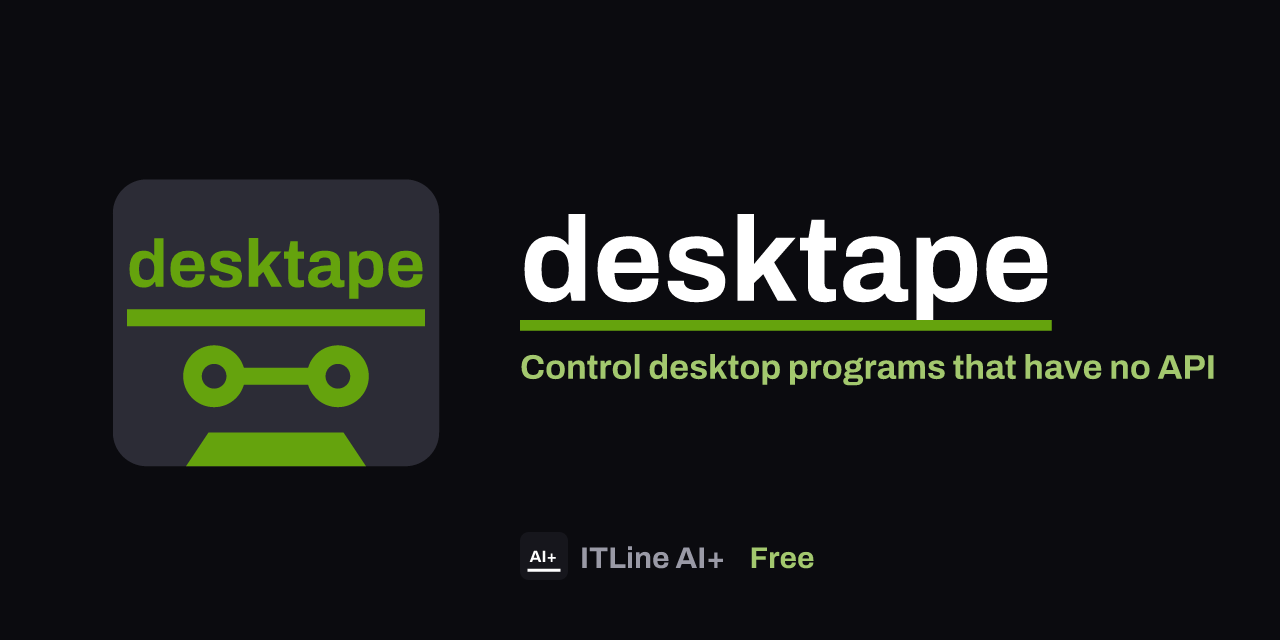
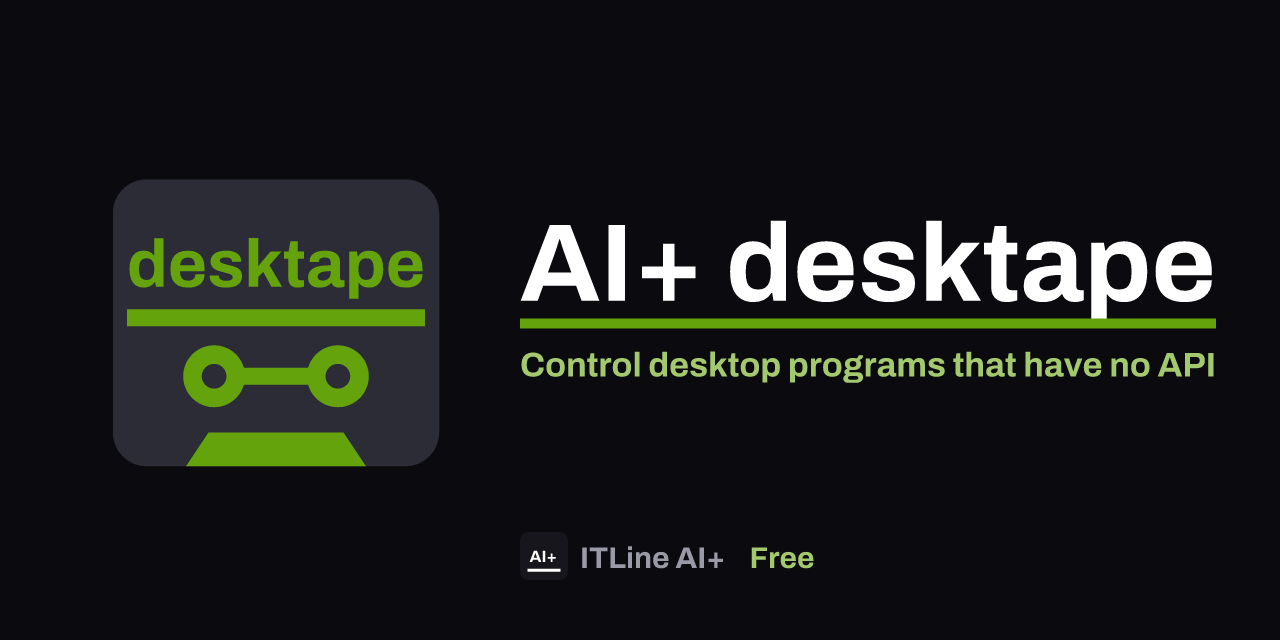
AI+ desktape: the repository is itlinekft/aiplus-desktape; README head, links and Pages follow
Owner decision (#187, confirmed by the owner in two sessions): every AI+ module is "AI+ <name>" with an aiplus-
id, so desktape is AI+ desktape, aiplus-desktape. The repositories were renamed (GitHub forwards the old
addresses; Pages moves to itlinekft.github.io/aiplus-desktape, which does not forward). Here:
- README head: the ITLine AI+ lockup and the desktape mark, then "AI+ desktape · ITLine AI+ · ingyenes · MIT";
- every github.com/itlinekft/desktape and itlinekft.github.io/desktape link (README, SECURITY, user guide,
  site, the desktape-start skill), and `git clone … && cd aiplus-desktape`;
- the site's title and link-preview title, and the regenerated social card titled "AI+ desktape".
The command stays `desktape` (desktape.py, the desktape skill); the plugin's own name is the next commit.

Changed region(s): [[0.4062, 0.3125, 0.9688, 0.625]]

diff --git a/site/index.html b/site/index.html
@@ -3,15 +3,15 @@
 <head>
 <meta charset="utf-8">
 <meta name="viewport" content="width=device-width, initial-scale=1">
-<title>desktape: tapes for desktop GUIs</title>
+<title>AI+ desktape: control desktop programs that have no API</title>
 <meta name="description" content="Control desktop programs that have no API: an agent works out the clicks once as a tape, and desktape replays it with zero model tokens, checking every step. The same tape runs as a test or a captioned video.">
-<meta property="og:title" content="desktape">
+<meta property="og:title" content="AI+ desktape">
 <meta property="og:description" content="Control desktop programs that have no API, checked step by step, with zero model tokens on replay. Like VHS, but for desktop GUIs.">
-<meta property="og:image" content="https://itlinekft.github.io/desktape/brand/social-preview-1280x640.png">
+<meta property="og:image" content="https://itlinekft.github.io/aiplus-desktape/brand/social-preview-1280x640.png">
 <meta property="og:image:width" content="1280">
 <meta property="og:image:height" content="640">
 <meta name="twitter:card" content="summary_large_image">
-<meta name="twitter:image" content="https://itlinekft.github.io/desktape/brand/social-preview-1280x640.png">
+<meta name="twitter:image" content="https://itlinekft.github.io/aiplus-desktape/brand/social-preview-1280x640.png">
 <link rel="icon" href="brand/favicon.svg" type="image/svg+xml">
 <link rel="icon" href="brand/favicon.ico" sizes="any">
 <link rel="icon" href="brand/favicon-32.png" sizes="32x32" type="image/png">
@@ -151,9 +151,9 @@
   <header>
     <a class="mark" href="./"><img src="brand/favicon.svg" alt="" width="32" height="32"><b>desk<span>tape</span></b></a>
     <nav>
-      <a href="https://github.com/itlinekft/desktape/blob/main/docs/user-guide.md">Guide</a>
-      <a class="wide" href="https://github.com/itlinekft/desktape/blob/main/docs/tape-format.md">Tape format</a>
-      <a href="https://github.com/itlinekft/desktape">GitHub</a>
+      <a href="https://github.com/itlinekft/aiplus-desktape/blob/main/docs/user-guide.md">Guide</a>
+      <a class="wide" href="https://github.com/itlinekft/aiplus-desktape/blob/main/docs/tape-format.md">Tape format</a>
+      <a href="https://github.com/itlinekft/aiplus-desktape">GitHub</a>
     </nav>
   </header>
 
@@ -163,8 +163,8 @@
       tape; desktape replays it with zero model tokens, checking every step, on Windows or macOS, over SSH or on
       the machine itself. The same tape runs as a test, or as a captioned video.</p>
     <div class="buttons">
-      <a class="primary" href="https://github.com/itlinekft/desktape">View on GitHub</a>
-      <a href="https://github.com/itlinekft/desktape/blob/main/docs/user-guide.md">Read the guide</a>
+      <a class="primary" href="https://github.com/itlinekft/aiplus-desktape">View on GitHub</a>
+      <a href="https://github.com/itlinekft/aiplus-desktape/blob/main/docs/user-guide.md">Read the guide</a>
     </div>
     <div class="player" id="player" role="img" aria-label="Animation: a tape replays step by step on a desktop window, with the account's chats covered and no model calls">
       <div class="tape-pane">
@@ -282,7 +282,7 @@
     </div>
     <p style="color: var(--muted); font-size: 15px;">Claude's side as of October 2026, from Anthropic's help pages;
       sources and our measurements in
-      <a href="https://github.com/itlinekft/desktape/blob/main/docs/related-work.md#desktape-and-claudes-own-computer-use">related work</a>.</p>
+      <a href="https://github.com/itlinekft/aiplus-desktape/blob/main/docs/related-work.md#desktape-and-claudes-own-computer-use">related work</a>.</p>
   </section>
 
   <section>
@@ -325,7 +325,7 @@ desktape.py run tape.yaml --mode video</code></pre>
       </table>
     </div>
     <p style="color: var(--muted); font-size: 15px;">Every run: 0 model calls. The method and the raw numbers are
-      in <a href="https://github.com/itlinekft/desktape/blob/main/docs/spike-2026-10-23.md">the spike notes</a>.</p>
+      in <a href="https://github.com/itlinekft/aiplus-desktape/blob/main/docs/spike-2026-10-23.md">the spike notes</a>.</p>
   </section>
 
   <section>
@@ -340,14 +340,14 @@ desktape.py run tape.yaml --mode video</code></pre>
 
   <section>
     <h2>Get started</h2>
-    <pre><code>git clone https://github.com/itlinekft/desktape && cd desktape
+    <pre><code>git clone https://github.com/itlinekft/aiplus-desktape && cd aiplus-desktape
 pip install -r requirements.txt
 python3 desktape.py --selftest                       # offline, no host needed
 export DESKTAPE_HOST=user@windows-host
 python3 desktape.py look --map claude-desktop-win    # what is on screen, cheaply
 python3 desktape.py run tapes/claude-desktop-add-marketplace-dialog.yaml</code></pre>
     <p>The target needs OpenSSH Server, <a href="https://github.com/trycua/cua">Cua Driver</a> in the user's session,
-      and ffmpeg for video: <a href="https://github.com/itlinekft/desktape/blob/main/docs/windows-setup.md">Windows setup</a>.</p>
+      and ffmpeg for video: <a href="https://github.com/itlinekft/aiplus-desktape/blob/main/docs/windows-setup.md">Windows setup</a>.</p>
   </section>
 
   <section>

diff --git a/README.md b/README.md
@@ -1,11 +1,18 @@
 <p align="center">
   <picture>
+    <source media="(prefers-color-scheme: dark)" srcset="site/brand/itline-aiplus-lockup.svg">
+    <img src="site/brand/itline-aiplus-lockup.svg" height="44" alt="ITLine AI+">
+  </picture>
+  &nbsp;&nbsp;&nbsp;
+  <picture>
     <source media="(prefers-color-scheme: dark)" srcset="site/brand/desktape-dark-256.png">
-    <img src="site/brand/desktape-256.png" width="160" height="160" alt="desktape">
+    <img src="site/brand/desktape-256.png" width="120" height="120" alt="desktape">
   </picture>
 </p>
 
-# desktape
+<p align="center"><b>AI+ desktape</b> · ITLine AI+ · ingyenes · MIT</p>
+
+# AI+ desktape
 
 ## Magyarul
 
@@ -37,7 +44,7 @@ keresztül kattint, lépésről lépésre, ahogy a tape előírja.
 ### Telepítés
 
 - **Claude Desktop:** Customize › Plugins › Add › Add marketplace, ide írd be: `itlinekft/aiplus-plugins`, majd
-  add hozzá a desktape-et. A desktape saját piactere is működik: `https://github.com/itlinekft/desktape.git`.
+  add hozzá a desktape-et. A desktape saját piactere is működik: `https://github.com/itlinekft/aiplus-desktape.git`.
 - **Claude Code:** `claude plugin marketplace add itlinekft/aiplus-plugins`, utána
   `claude plugin install desktape@aiplus-plugins`.
 
@@ -130,7 +137,7 @@ Rule of thumb: make deterministic only what repeats; the rest stays ad hoc with 
 ## Install as a Claude plugin
 
 In Claude Desktop: **Customize › Plugins › Add › Add marketplace**, paste `itlinekft/aiplus-plugins` (ITLine's
-marketplace, which lists desktape) or `https://github.com/itlinekft/desktape.git` (desktape's own), **Sync**, then
+marketplace, which lists desktape) or `https://github.com/itlinekft/aiplus-desktape.git` (desktape's own), **Sync**, then
 **Add desktape**. In Claude Code: `claude plugin marketplace add itlinekft/aiplus-plugins`, then
 `claude plugin install desktape@aiplus-plugins`; or `/plugin marketplace add itlinekft/desktape`, then
 `/plugin install desktape@desktape`.

diff --git a/skills/desktape-start/SKILL.md b/skills/desktape-start/SKILL.md
@@ -91,10 +91,10 @@ measurement lands in docs/MEASURED.md, and never claim more than that file. -->
 ## 6. Guide and troubleshooting
 
 > **HU:** Részletes útmutató: `docs/user-guide.md`; ha valami nem megy: `TROUBLESHOOTING.md` (magyarul is) ebben a
-> plugin mappában és a https://github.com/itlinekft/desktape oldalon.
+> plugin mappában és a https://github.com/itlinekft/aiplus-desktape oldalon.
 >
 > **EN:** The walkthrough: `docs/user-guide.md`; when something fails: `TROUBLESHOOTING.md`, in this plugin's folder
-> and at https://github.com/itlinekft/desktape.
+> and at https://github.com/itlinekft/aiplus-desktape.
 
 ## 7. Close
 

diff --git a/docs/user-guide.md b/docs/user-guide.md
@@ -11,7 +11,7 @@ or macOS program with an accessibility tree works the same way.
 ## 1. Install and check
 
 ```bash
-git clone https://github.com/itlinekft/desktape && cd desktape
+git clone https://github.com/itlinekft/aiplus-desktape && cd aiplus-desktape
 pip install -r requirements.txt
 python3 desktape.py --selftest            # → selftest ok   (offline, no target needed)
 export DESKTAPE_HOST=user@windows-host    # every other command needs a target

diff --git a/SECURITY.md b/SECURITY.md
@@ -3,7 +3,7 @@
 ## Reporting a problem
 
 Report a security problem privately through GitHub's „Report a vulnerability” on
-https://github.com/itlinekft/desktape/security, not in a public issue. ITLine Kft. answers there.
+https://github.com/itlinekft/aiplus-desktape/security, not in a public issue. ITLine Kft. answers there.
 
 ## What desktape does on a machine
 
